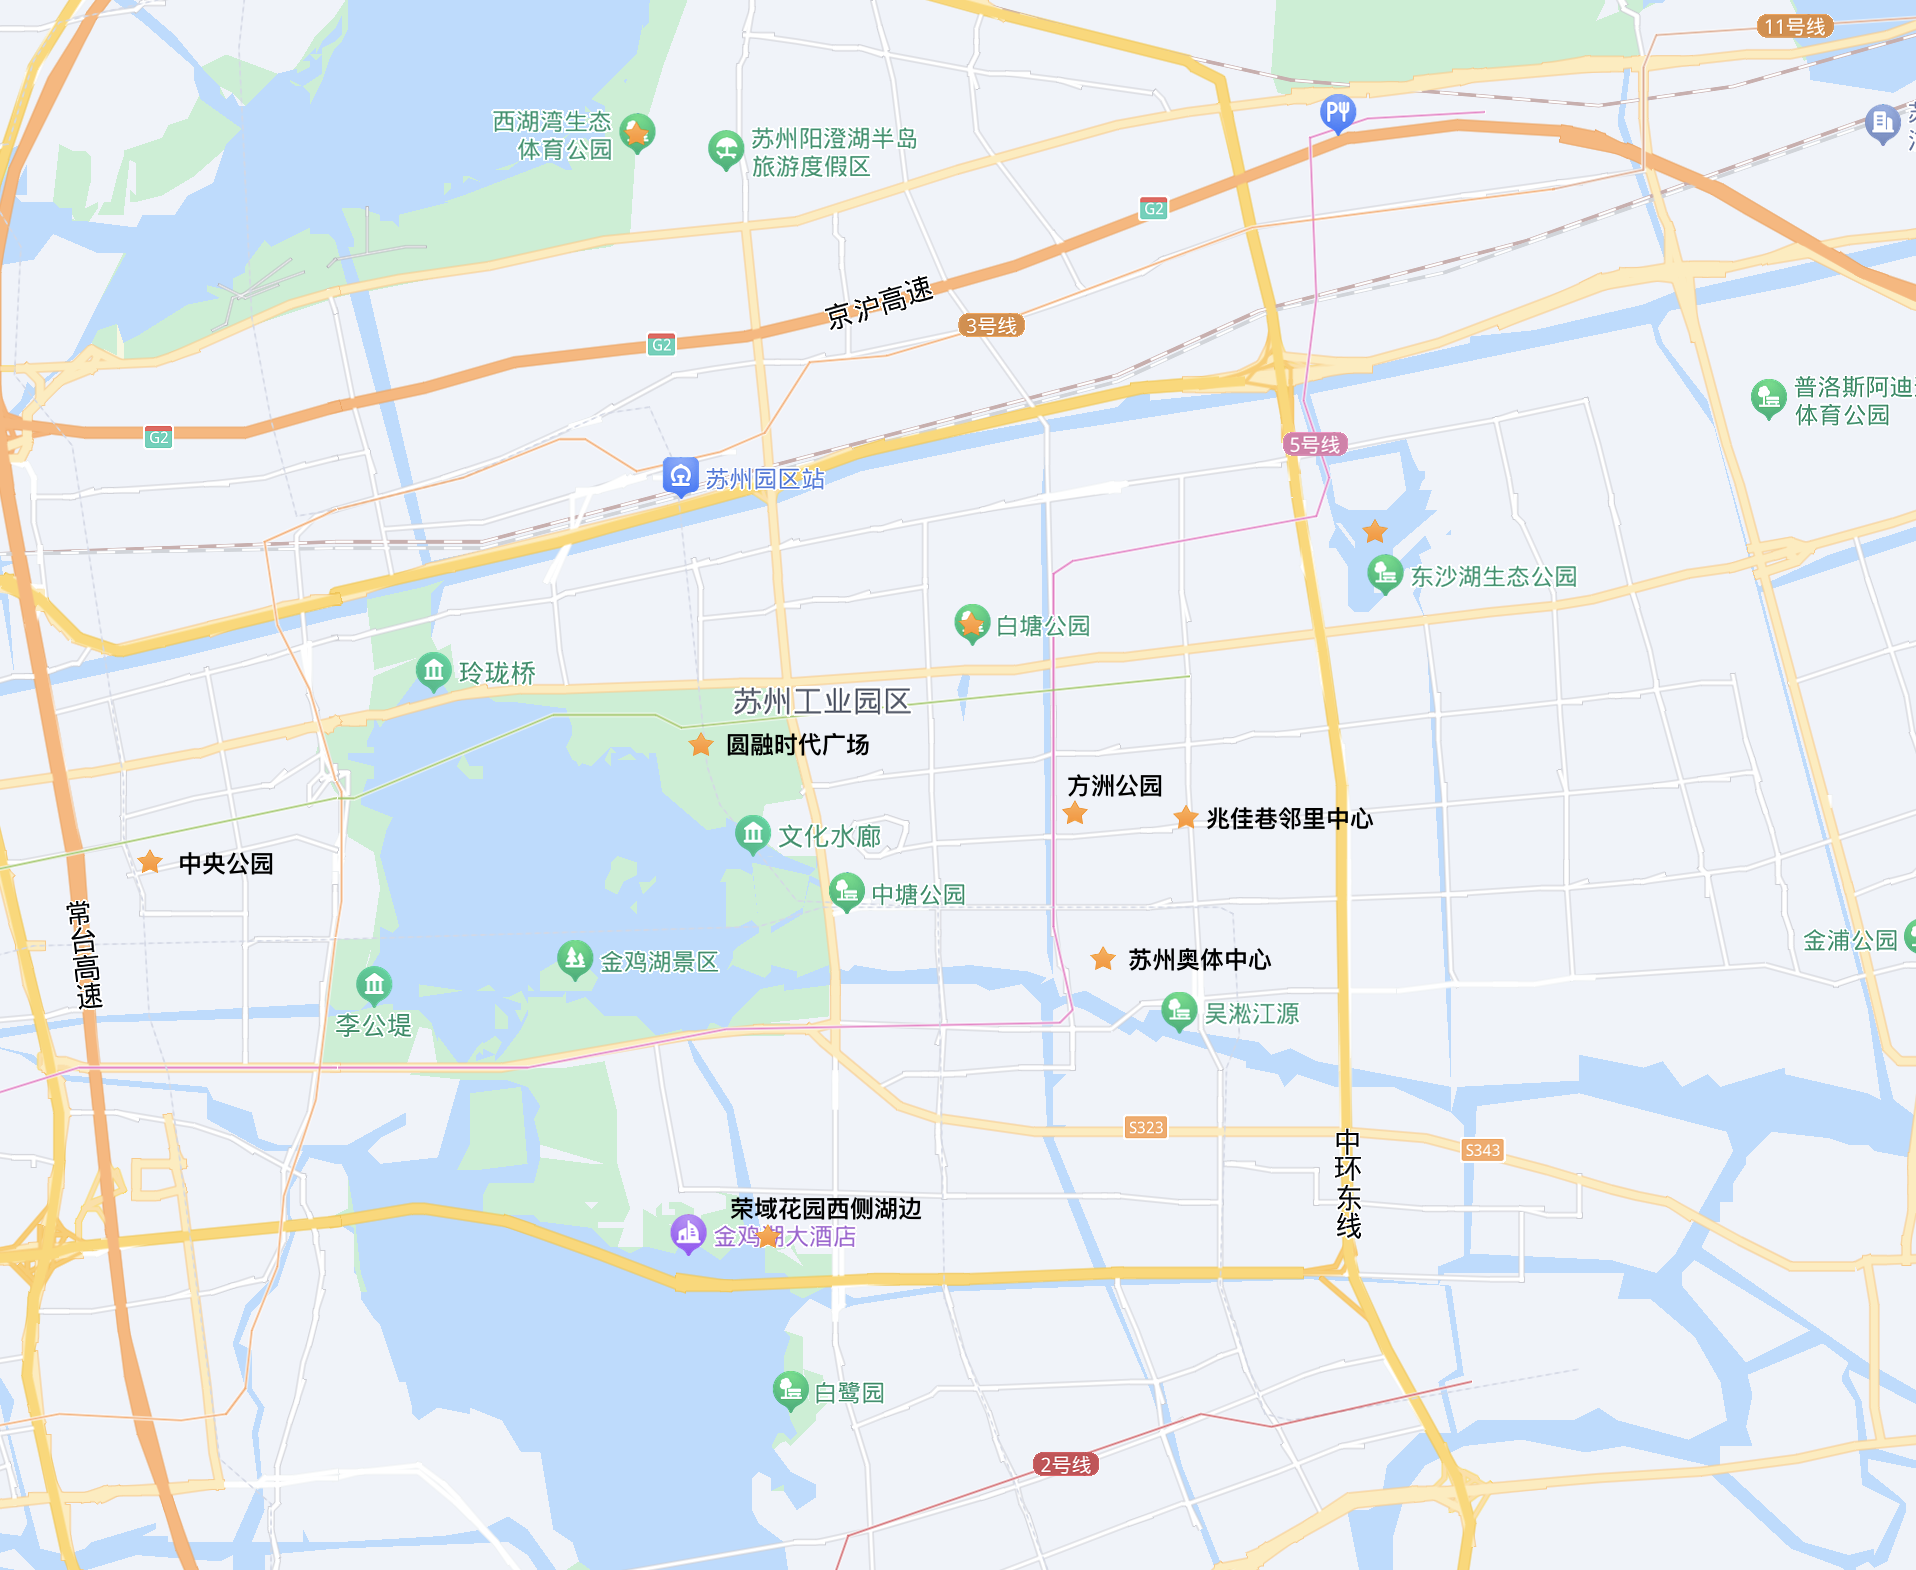
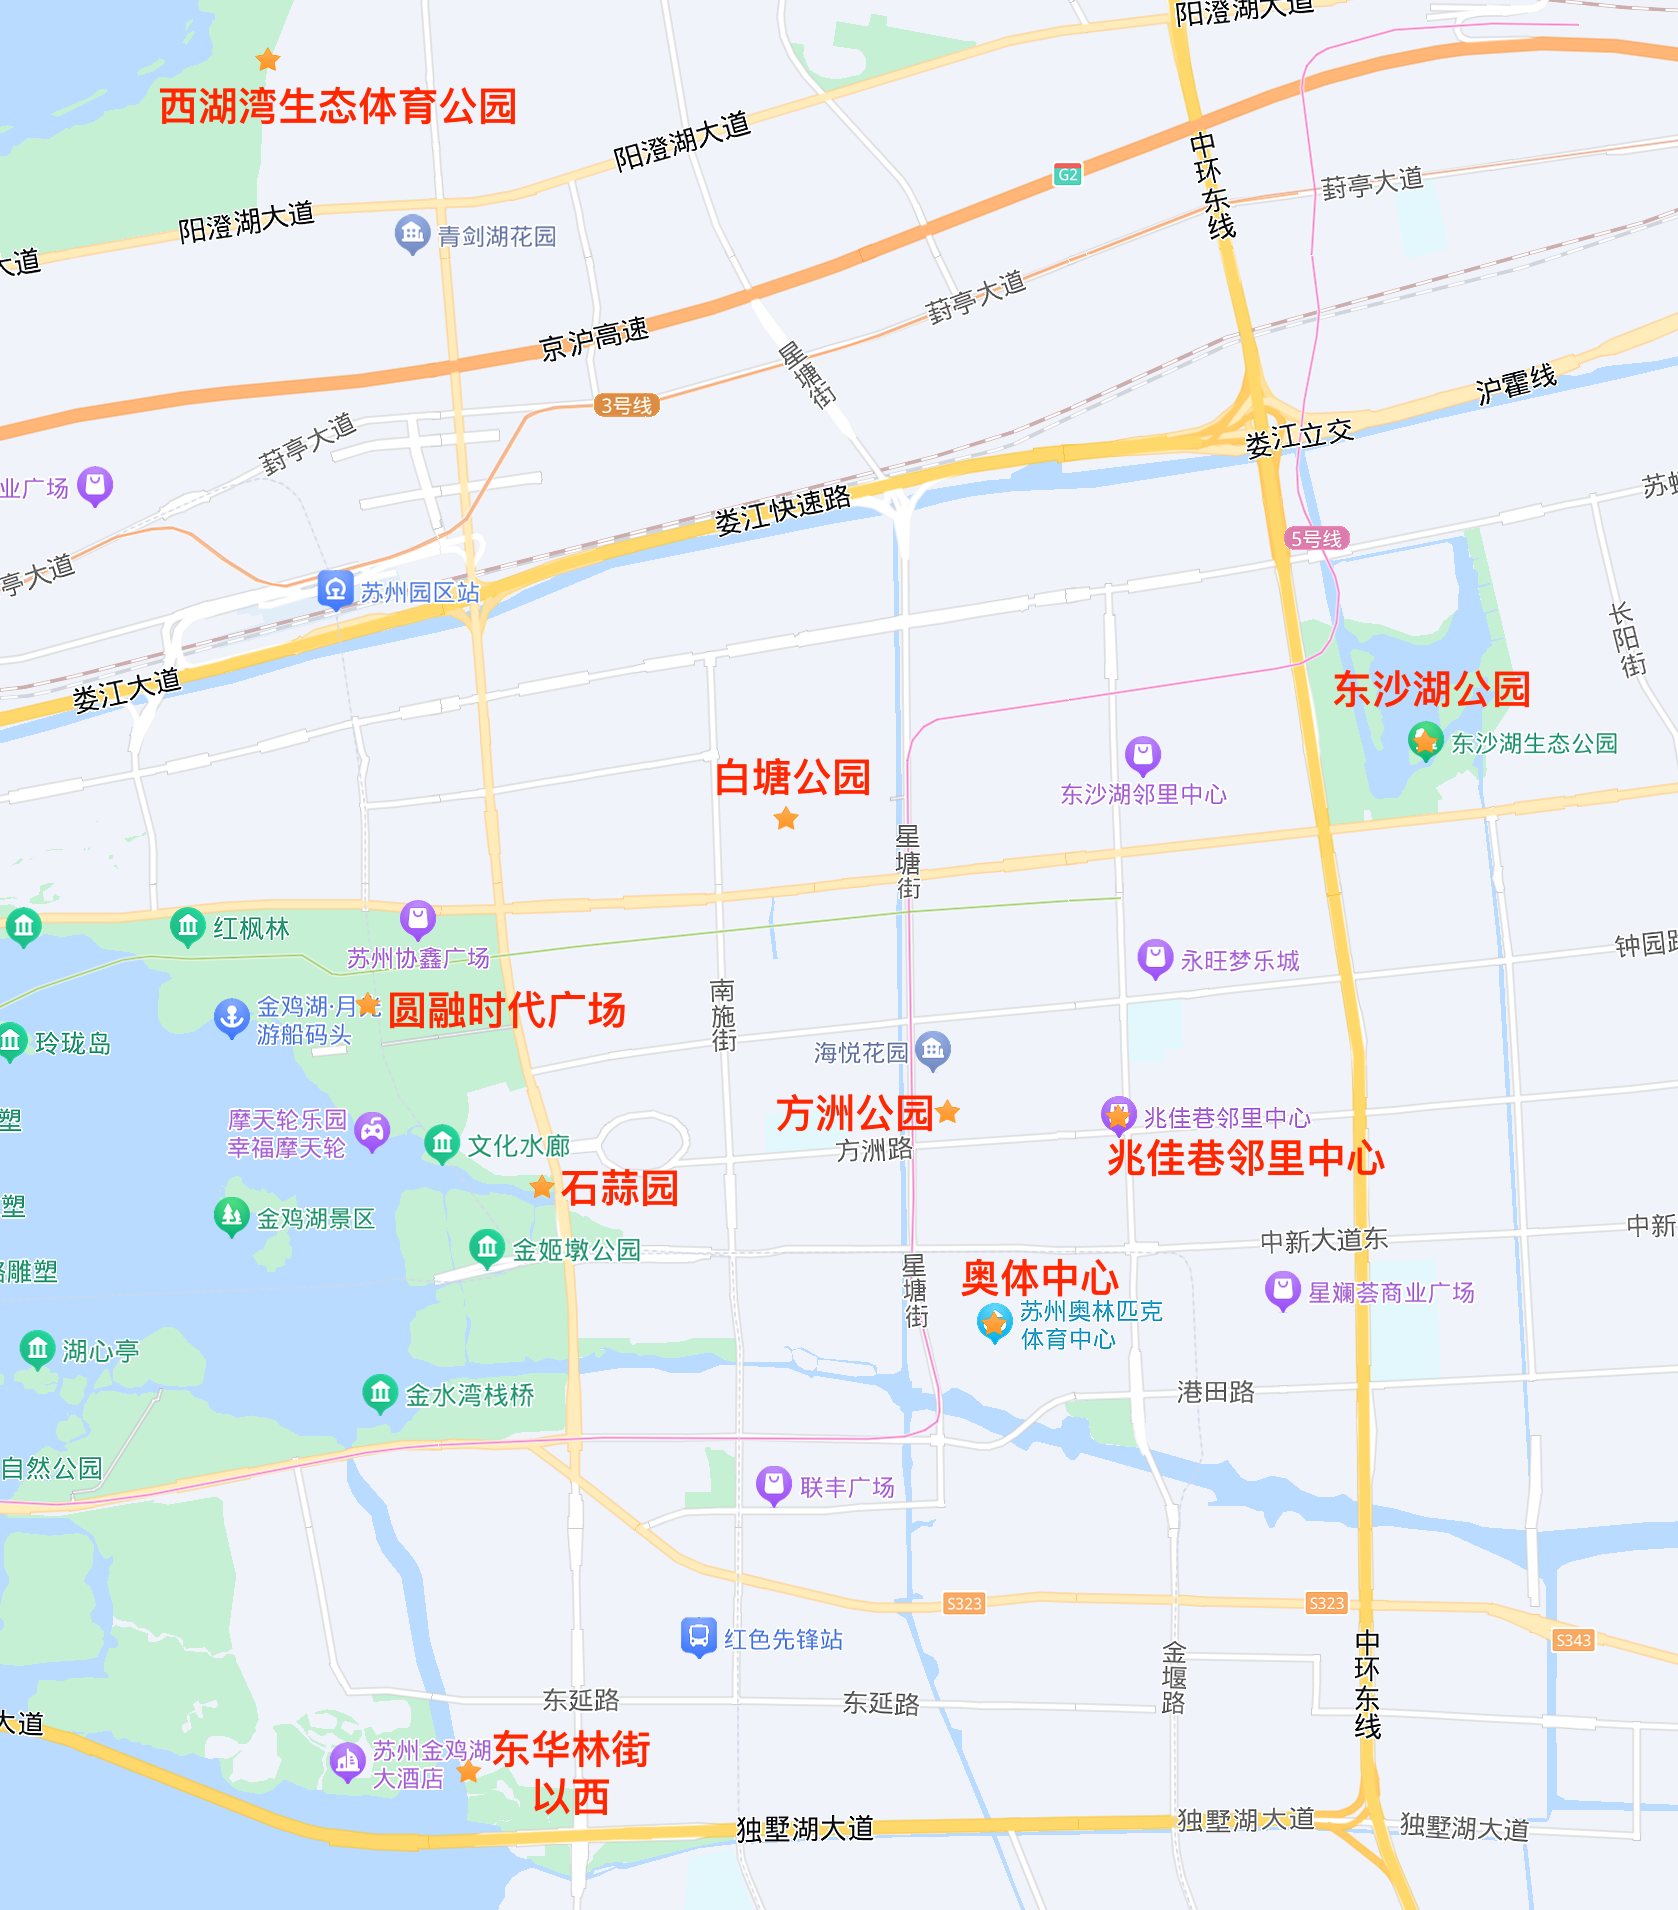
revise

diff --git a/苏州及周边40个室外遛娃地推荐/readme.md b/苏州及周边40个室外遛娃地推荐/readme.md
@@ -1,8 +1,10 @@
-本文中，我将推荐40个适合3岁以上10岁以下小朋友的户外活动场所。
+我将推荐40个户外活动场所，它们适合3岁以上、12岁以下的小朋友们。
 
-现在的小朋友学习任务重，又有电视、平板电脑等各种诱惑，容易长时间处于用眼疲劳的状态。所以，周末的最佳亲子活动，应该就是带着小朋友去公园里玩。这么做好处有很多：其一，小朋友可以充分地活动身体；其二，能增加户外用眼时长，预防和改善近视眼；其三，能增加小朋友的社交渠道，让他们有机会认识新的朋友。
+现在的小朋友学习任务重，又有电视、平板电脑等各种诱惑，容易长时间处于用眼疲劳状态。所以，周末的最佳亲子活动，应该就是带着小朋友去公园里玩。
 
-要在周末的一天或者两天内能够成行，路上花的时间就不能太长。所以以苏州工业园区为中心，这40个目的地在地图APP上查询到的车程都在**2小时以内**。而南京这种很适合遛娃的城市也被就此排除在推荐名单之外了。
+这么做对小朋友们有很多好处：其一，可以充分地活动身体；其二，能增加户外用眼时长，预防和改善近视眼；其三，能增加小朋友的社交渠道，让他们有机会认识新的朋友。
+
+要在周末一两天内能够成行，路上花的时间就不能太长。所以，以苏州工业园区为起点，这40个目的地在地图APP上查询到的车程都在**2小时以内**。而像南京这种很适合遛娃的城市，就因为距离苏州太远所以被排除出推荐列表。
 
 我选取这40个公共活动场所有以下3条原则：
 
@@ -13,21 +15,19 @@
 另外，我还会从4个方面给这40个目的地打分：（满分5分⭐⭐⭐⭐⭐）
 
 1. **乐趣**。包含耐玩程度、寓教于乐程度、独特性等方面的考量。
-2. **风景**。优美的风景能让家长也得到充分的放松。
+2. **风景**。优美的风景能让大朋友们也得到充分的放松。
 3. **人气**。小朋友们一起玩才更好玩。
 4. **性价比**。免费公园打5分；收费公园按性价比打1-4分不等。
 
-最后，这里推荐的地点都是我和我儿子已经去过的，我给出的评价都是基于我们的亲身体验。
+最后，这里推荐的地点都是我和我儿子已经去过的，因此以下评价都基于我们的亲身体验。
 
 # 太长不看
 
-我先把这40个遛娃地总结在下面的表格里。
+我先把这40个遛娃地总结在下面的表格里。推荐分值范围为0分到5分。那些达不到及格线3分的公园已经被我排除在这个列表之外了。
 
-其中，推荐值范围为0到5分。那些达不到及格线3.0分的公园已经被我排除在这个推荐列表之外了。
+此外，正文中我还点评了许多没有加入推荐列表但也许仍值得你考虑的地点。
 
-此外，正文中我还点评了许多没有加入推荐列表但是也许仍值得你考虑的遛娃地。
-
-| 市/县/区 | 遛娃地 | 推荐值（5分制） | 车程 |
+| 市/县/区 | 遛娃地 | 推荐值 <br> 5分制 | 车程 |
 | ------- | --- | --- | --- |
 | [苏州工业园区](#苏州工业园区) | [苏州奥体中心](#1-苏州奥体中心) <br> [兆佳巷邻里中心](#2-兆佳巷邻里中心) <br> [方洲公园](#3-方洲公园) | 4.5 <br> 3.8 <br> 3.8 | <30分钟 <br> <30分钟 <br> <30分钟 |
 | [姑苏区](#姑苏区) | [运河体育公园](#4-运河体育公园) <br> [苏州公园](#5-苏州公园) <br> [东园-相门城楼](#6-东园-相门城楼) | 4.0 <br> 3.3 <br> 4.5 | <30分钟 <br> <30分钟 <br> <30分钟 |
@@ -50,7 +50,7 @@
 
 # 苏州工业园区
 
-我家住苏州工业园区，所以我们从这里开始每周末的遛娃之旅。
+我家住在苏州工业园区，所以我们从这里开始每周末的遛娃之旅。
 
 ## 1. 苏州奥体中心
 
@@ -60,17 +60,17 @@
 - 人气⭐⭐⭐⭐⭐
 - 性价比⭐⭐⭐⭐⭐
 
-苏州奥体中心由四栋主体建筑构成，这四栋建筑的中间有两片儿童游乐场地，其中常见的攀爬设施都有。因为周边小区众多，所以人气很旺。
+苏州奥体中心由四栋主体建筑构成，这四栋建筑的中间有两片儿童游乐场地，包含了常见的攀爬设施。
 
-有时候圆盘形的秋千上甚至人满为患。
+因为周边小区众多，所以人气很旺。有时候圆盘形的秋千上甚至人满为患。
 
 ![苏州奥体中心](./images/苏州奥体中心.jpeg)
 
-这里比较耐玩，小朋友如果第一次来估计能玩2小时，值得推荐。
+这里比较耐玩，小朋友如果是第一次来估计能玩2小时，值得推荐。
 
-而且更重要的是这里有各种其他的室内外运动场所，商场、电影院也有，停车也方便。
+这里还有各种其他室内外运动场地，以及商场、电影院等，停车也很方便。
 
-最后，它南临斜塘河，河边景色也不错，一家人可以顺便去河边散散步。
+最后，它南临斜塘河。河边的景色也不错，一家人来了可以顺便去河边散散步。
 
 ## 2. 兆佳巷邻里中心
 
@@ -92,36 +92,43 @@
 - 人气⭐⭐⭐⭐⭐
 - 性价比⭐⭐⭐⭐⭐
 
-方洲公园是位于苏州奥体中心北面两公里左右的一个标准的市民公园，里面儿童游乐场所较多，人气很旺，值得推荐。
+方洲公园位于苏州奥体中心北面两公里左右，是一个标准的市民公园。这里儿童游乐设施较多，人气很旺，也值得推荐。
 
 ![方洲公园](./images/方洲公园.jpeg)
 
-方洲公园里有两个儿童游乐设备比较高，家长们需要关注小朋友的安全。如果第一次来估计能玩1个小时。
+其中，有两个游乐设施比较高，因此家长们需要关注小朋友的安全。
+
+如果第一次来这里，估计能玩1个小时。
 
 ## 其他
 
-苏州工业园区其实很大，但是这里仅仅只推荐了三个位于湖东的场地。还有一些其他的地方也有免费的儿童攀爬设施：
+苏州工业园区其实很大，但是这里仅仅只推荐了三个场地。还有一些其他的地方也有免费的儿童攀爬设施：
 
 - 西湖湾生态体育公园
 - 白塘公园
 - 东沙湖生态公园
 - 圆融时代广场
+- 石蒜园
 - 中央公园
-- 荣域花园西侧湖边公园
+- 东华林街以西湖边公园
 
-但因为这些地方耐玩度不够高，所以未被加入推荐列表。如果顺路的话可以带小朋友去转转。
+因为这些地方耐玩度不够高，所以未被加入推荐列表。如果离得近的话可以带小朋友去转转。
 
 ![苏州工业园区儿童游乐场所分布](./images/苏州工业园区儿童游乐场所分布.png)
 
-其实总体而言苏州工业园区的公共儿童活动场地还是偏少的。
+总体而言，苏州工业园区的公共儿童活动场地还是偏少的。
 
-这里公园并不少，而且其中有许多公园风景很美，可是带小朋友过去却往往发现没什么东西可玩。比如独墅湖边的白鹭园。幸好，根据一些苏州本地公众号的消息，许多路边公园正在改造，将会增加一些儿童游乐设施。
+这里公园并不少，而且其中有许多公园风景很美，可是带小朋友过去却往往发现没什么东西可玩——比如独墅湖边的**白鹭园**。
 
-此外，就动力型游乐场方面而言，位于阳澄湖边的**华谊兄弟电影乐园**票价较贵，而且并不是很适合小朋友。位于金鸡湖边的**摩天轮乐园**本来还不错，但是它已经关门6年了，不知道何时才能重新开业，而重新开业之后又不知道它还适不适合小朋友玩了。
+幸好，最近一年来许多路边公园正在改造或者已经改造完成，增加了一些儿童游乐设施。
+
+此外，就动力型游乐场方面而言，位于阳澄湖边的**华谊兄弟电影乐园**票价较贵，而且并不是很适合小朋友。
+
+位于金鸡湖边的**摩天轮乐园**本来还不错，但是它已经关门6年了，不知道何时才能重新开业，而重新开业之后又不知道它还适不适合小朋友玩了。
 
 # 姑苏区
 
-姑苏区园林众多，是外地游客来旅游的热门目的地。这里无论周末与否路上都很堵，所以我建议大家乘坐公共交通前往。
+姑苏区园林众多，是外地游客来苏州旅游的热门目的地。这里无论周末与否路上都很堵，所以我建议大家乘坐公共交通前往。
 
 ## 4. 运河体育公园
 
@@ -133,9 +140,9 @@
 
 运河体育公园位于姑苏区和高新区交界的地方，在大运河的东面，寒山寺的南面，苏州体育中心的北面。
 
-我们去玩的那次大运河边还在施工，工地围挡把公园和大运河隔开了，所以公园里的景色也打了折扣。
+我们去的那次大运河边还在施工，工地围挡把公园和大运河隔开了，所以公园里的景色也打了折扣。
 
-这里人气非常旺，很多大朋友在公园里运动或散步，小朋友就都集中在公园里的一块游乐场地里。
+这里人气非常旺，很多大朋友在公园里运动或散步，而小朋友都集中在这里的一块游乐场地内。
 
 ![运河公园](./images/运河公园.jpeg)
 
@@ -149,11 +156,13 @@
 - 人气⭐⭐⭐⭐⭐
 - 性价比⭐⭐
 
-苏州公园是一个老派的市民公园，位于内城中心位置。通常有很多老年人在里头晨练、散步、下棋。但是苏州公园里面还有一个儿童游乐场，里面有自控飞机、mini漂流、mini海盗船等将近10种单独收费的电动游乐设施，比较适合低龄小朋友。这些游乐设施平均单次价格大约15元。在我看来，这个游乐场性价比不算高，很容易就花出去100多元。然而，在苏州市区范围内，这已经算是最适合小朋友的动力型游乐场了。
+苏州公园是一个老派的市民公园，位于姑苏城内中心位置。很多老年人在里头晨练、散步、下棋。
+
+苏州公园里面还有一个儿童游乐场，包含自控飞机、mini漂流、mini海盗船等将近10种单独收费的电动游乐项目，很适合低龄小朋友。这些游乐项目平均价格大约单次15元。在我看来这些项目性价比不算高，你很容易就会花出去100多元。然而，在苏州市区范围内，这已经算是最适合小朋友的动力型游乐场了。
 
 ![苏州公园](./images/苏州公园.png)
 
-周末这里人气很旺。公园不大，中间有个池塘，可以租钓竿钓鱼玩一玩，也还是值得推荐的。
+苏州公园不大，中间有个池塘，可以租钓竿玩一玩钓鱼。
 
 需要注意的是，大约两年前这里的儿童游乐场施工停业，不知道现在（2024年6月）重新开放了没有。所以大家去之前最好是打公园的电话问一下。
 
@@ -164,7 +173,7 @@
 - 人气⭐⭐⭐⭐⭐
 - 性价比⭐⭐⭐⭐
 
-东园位于姑苏区东面娄门的附近。这里离苏州博物馆、拙政园等旅游景点很近，所以附近很难停车。
+东园位于姑苏区娄门附近。这里离苏州博物馆、拙政园等旅游景点很近，所以附近很难停车。
 
 东园里有小游船、小火车等收费项目。
 
@@ -184,7 +193,7 @@
 
 ![姑苏区儿童游乐场所分布](./images/姑苏区儿童游乐场所分布.png)
 
-姑苏区有大量的园林，是旅游胜地。苏州园林名声在外，带小朋友去当然也是可以的。我们家没怎么去过，一个是门票比较贵，另外一个是怕节假日人太多体验太差，还有就是怕小朋友觉得无聊。可能等小朋友大一点之后，会办一张园林卡然后再带他去。
+姑苏区有大量的园林，是旅游胜地。苏州园林名声在外，带小朋友去当然也是可以的。我们家没怎么去过，一个是门票比较贵，另外一个是怕节假日人太多体验太差，还有就是怕小朋友觉得无聊。可能等小朋友大一点之后，我会办一张园林卡然后再带他去这些园林。
 
 此外，姑苏区类似苏州公园的电动儿童游乐场还有两家，分别是**桐泾公园**和**桂花公园**。我觉得这两家公园性价比都一般，所以不做推荐了。当然，如果你实在是想去个近一点的地方，又没有别的选择的话，那还是可以去的。值得一提的是，这两家公园里的儿童游乐场是同一家公司在运营，他们的储值卡也是通用的。
 
@@ -194,7 +203,7 @@
 
 # 苏州高新区
 
-苏州本是河湖密布的地方，很少有山。苏州高新区和吴中区是苏州市区仅有的两个有山的市辖区。恰好，高新区内我推荐的遛娃地都在山脚下。
+苏州本是河湖密布的地方，很少有山。苏州高新区和吴中区是苏州市区里仅有的两个靠山的市辖区。恰好，在高新区内我推荐的遛娃地都在山脚下。
 
 ## 7. 白马涧
 
